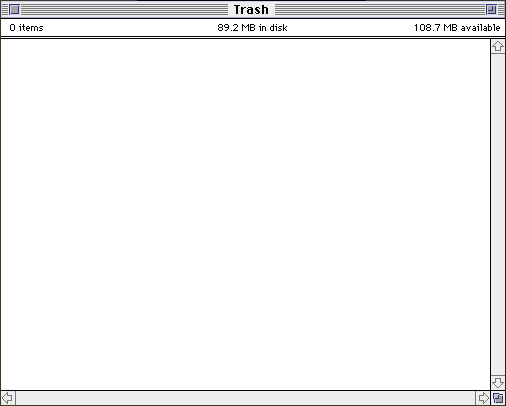
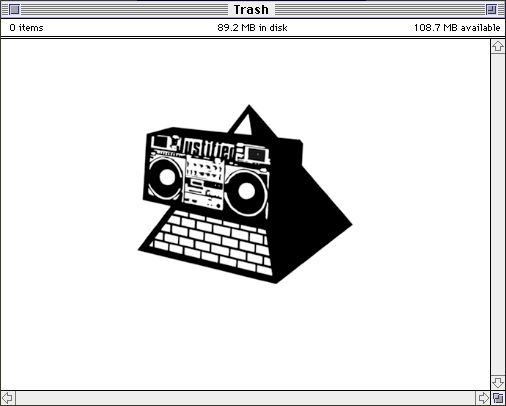
Ready Player Four...

Changed region(s): [[0.2668, 0.2365, 0.7115, 0.7094]]

diff --git a/index.html b/index.html
@@ -1,14 +1,30 @@
-<!DOCTYPE html PUBLIC "-//W3C//DTD HTML 4.01//EN" "http://www.w3.org/TR/html4/strict.dtd">
-<html><head><meta content="text/html; charset=ISO-8859-1" http-equiv="content-type"><title>andarazOroflove</title></head><body>
-<div style="text-align: center;"><br>
-<br>
-<br>
-<br>
-<img style="width: 300px; height: 249px;" alt="" src="Pyramid_Blaster.png"><br>
-<br>
-<br>
-Ladies and gentlemen, <a href="https://github.com/andarazoroflove">andarazOroflove</a>.org have left the building.<br>
+<html>
+<head>
+<title>[andarazOroflove.org]</title>
+<style type="text/css">
+.style1 {border: 1px solid #000000;}
+</style>
+</head>
 
+<body style="margin-left: 0; margin-right: 0; margin-top: 20px; margin-bottom: 0; background-color: #666666;">
 
-</div>
-</body></html>
+<table align="center" style="width: 640px; height= 500px" background="img/pattern2.png" cellspacing="0" cellpadding="0" class="style1">
+	<tr>
+		<td colspan="3" style="height: 20px">
+		<img src="img/menubar3.png" width="640" height="21" /></td>
+	</tr>
+	<tr>
+		<td style="width: 30px" rowspan="3">&nbsp;</td>
+		<td style="width: 506px; height: 24px"></td>
+		<td rowspan="3" style="width: 104px"><img src="img/folders.png" width="86" height="480" /></td>
+	</tr>
+	<tr>
+		<td style="width: 506px; height: 406px;"><iframe style="width: 506px; height: 406px" scrolling="no" src="trashframe.htm"></iframe></td>
+	</tr>
+	<tr>
+		<td style="width: 506px; height: 50px">&nbsp;</td>
+	</tr>
+</table>
+
+</body>
+</html>
